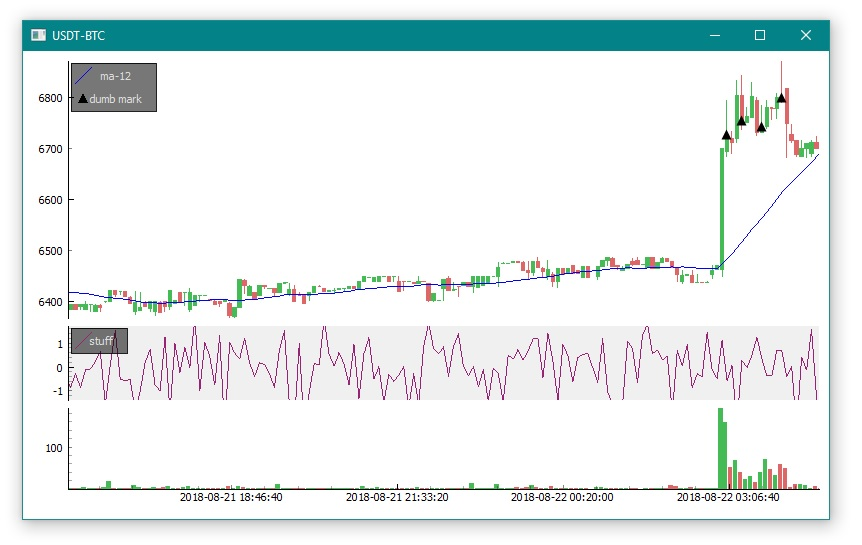
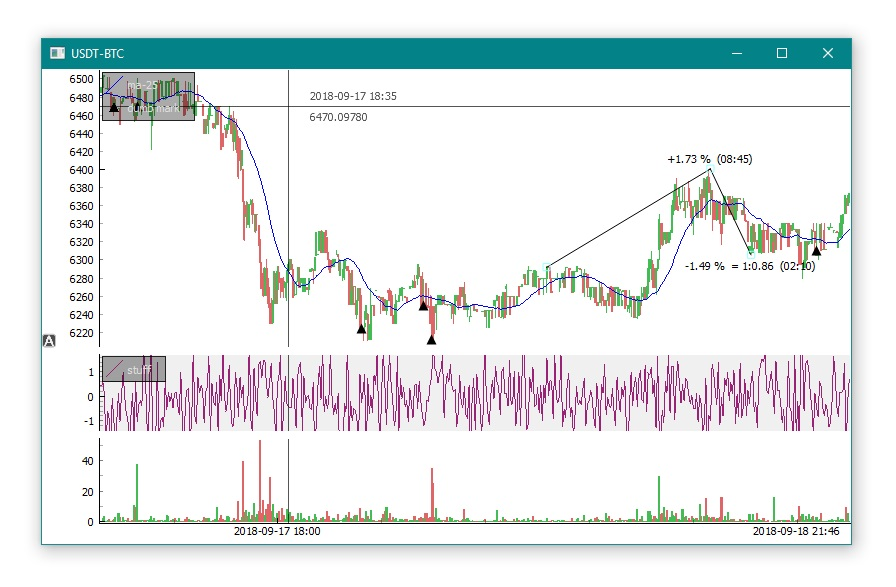
Update screenshot with crosshair and manual line drawing

Changed region(s): [[0.0, 0.0312, 0.9954, 0.967], [0.7842, 0.4991, 0.8144, 0.5303], [0.6636, 0.3743, 0.6937, 0.4055]]

diff --git a/README.md b/README.md
@@ -6,7 +6,9 @@ Meet Finance Plotter, or finplot! It utilizes pyqtgraph underneath, which to my 
 to immitate matplotlib's api, but with better default looks and much better performance.
 
 Also included is some zooming+scaling logic, so you won't get that "panning all over the place" feeling as one normally finds in
-most non-finance plot libraries.
+most non-finance plot libraries. Plus manual line drawing, where each line segment shows % and time change.
+
+Note that I've placed panning on the middle mouse button, and line drawing on the left mouse drag/click. This is subject to change.
 
 
 ## Easy installation
@@ -14,7 +16,7 @@ most non-finance plot libraries.
 You will need to pip install a couple of libraries, but no external installations required. (Which is a nice change under Windows, as
 pretty much everything performant used to require MSVC altercation or external installation of binaries.)
 
-So all you need to do (at least in Win10/Py3.5.1x64 2018-08) is:
+So all you need to do (at least in Win10/Py3.6.6x64 2018-09) is:
 
 ```bash
 $ pip install pandas
